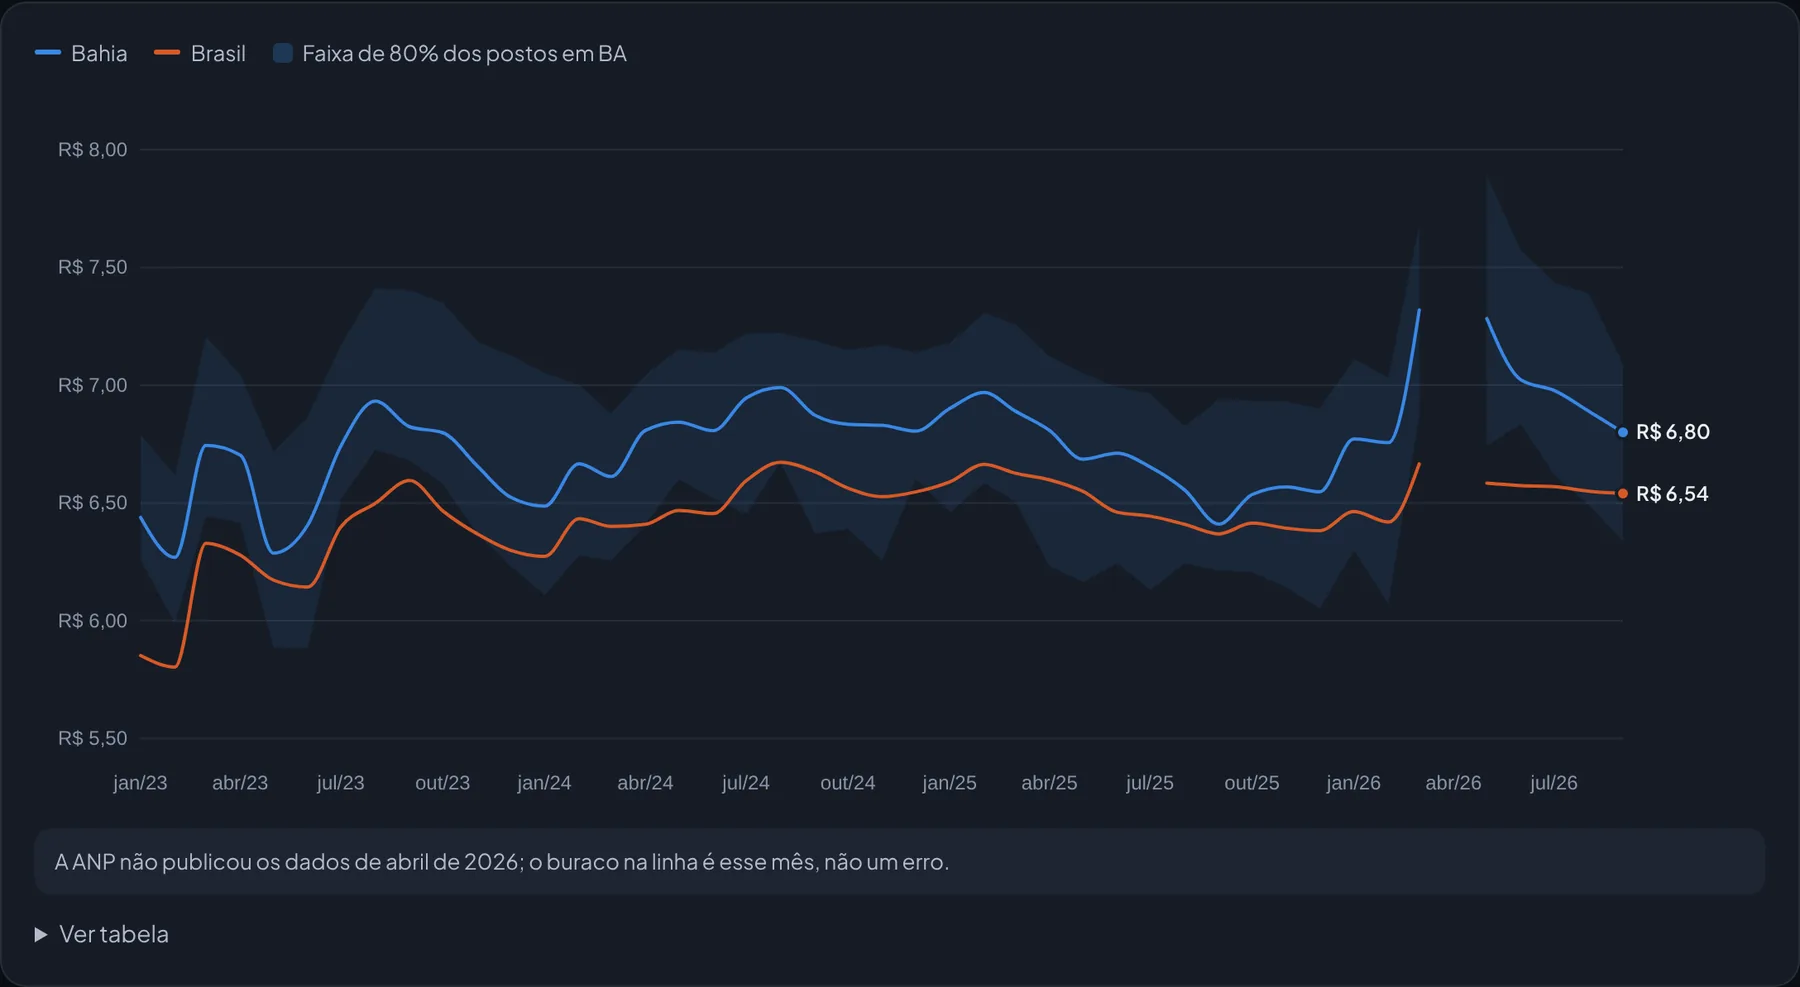
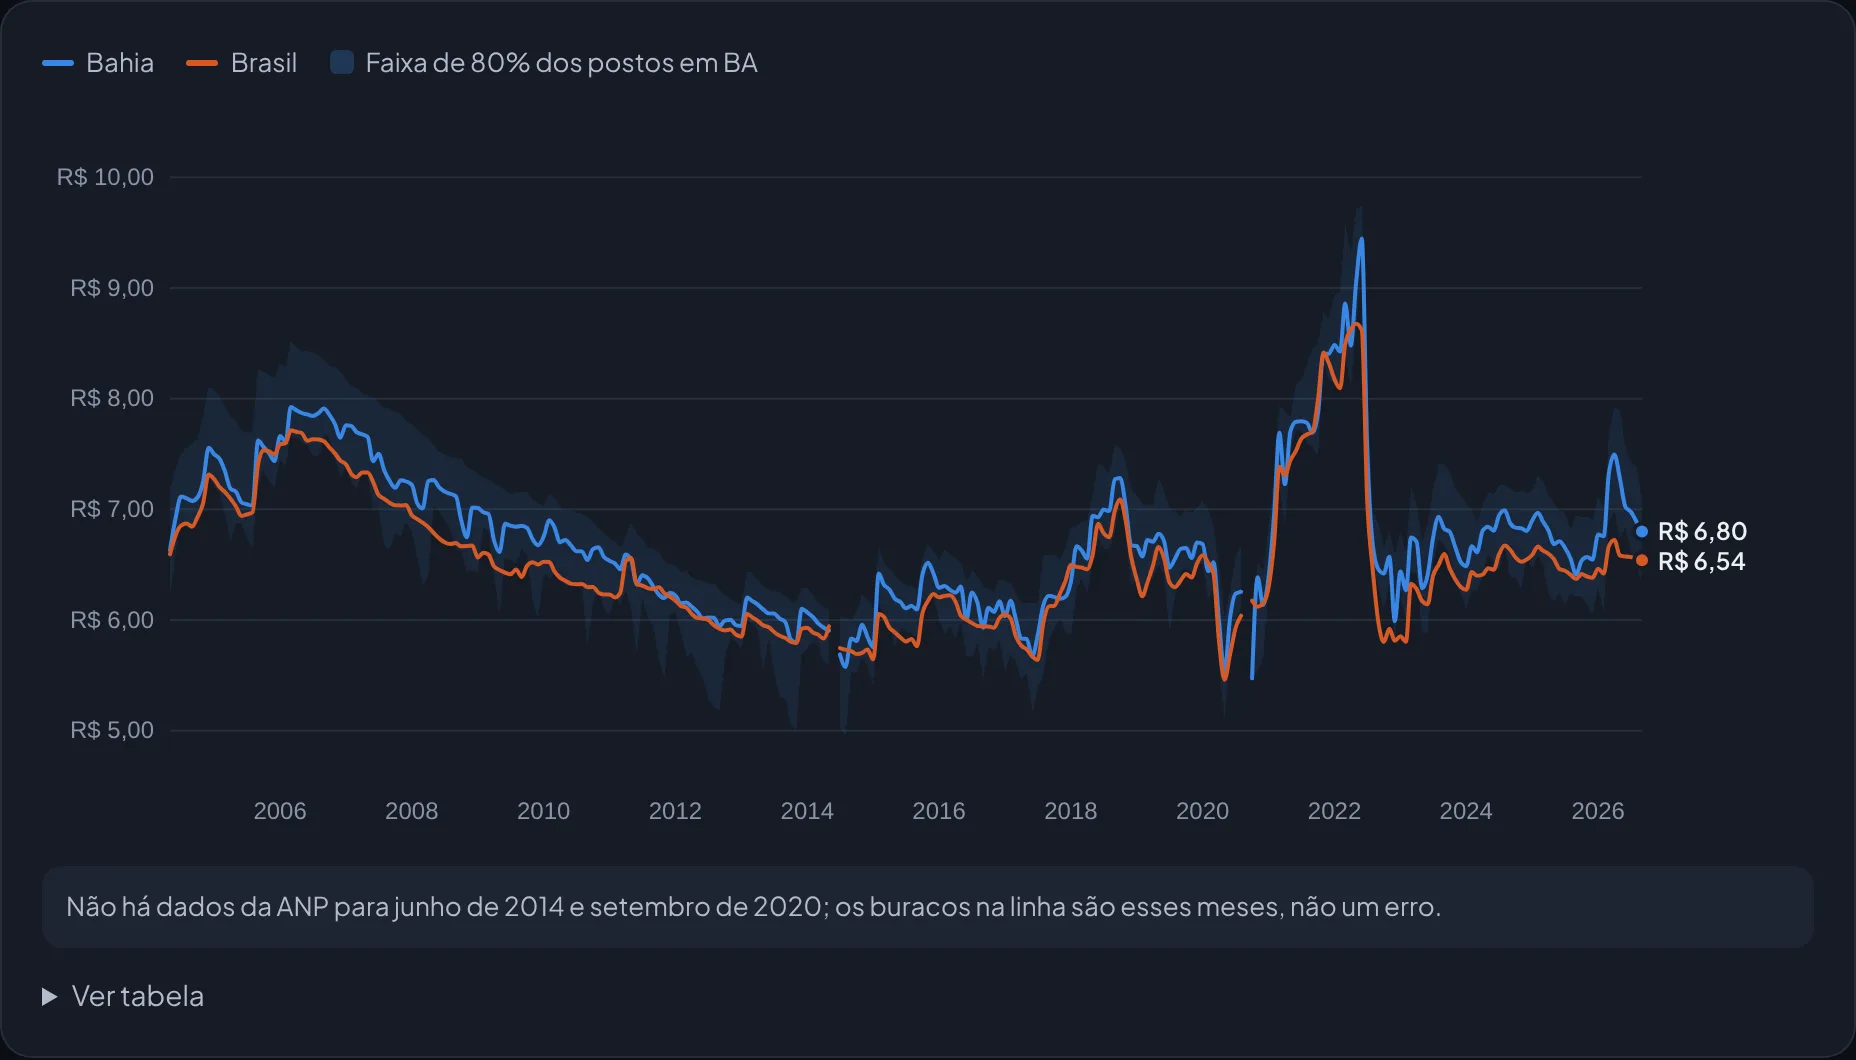
Atualiza o case do Raio-X com a base histórica desde 2004

diff --git a/client/src/lib/translations.ts b/client/src/lib/translations.ts
@@ -110,32 +110,32 @@ export const translations = {
       },
         fuel: {
           title: 'Raio-X dos Combustíveis',
-          desc: 'Pipeline que lê os dados abertos da ANP toda semana, corrige pela inflação e publica um painel de preços de combustível por estado, capital e município.',
-          tagline: 'Um pipeline que lê os dados abertos da ANP toda semana, corrige os preços pela inflação e publica sozinho um painel com gasolina, etanol e diesel em cada estado, capital e município pesquisado.',
+          desc: 'Base única com 25,5 milhões de preços da ANP desde 2004, montada com DuckDB, e um painel que corrige pela inflação e mostra o combustível por estado, capital e município.',
+          tagline: 'Toda a pesquisa de preços da ANP desde 2004 numa base única em Parquet, montada com DuckDB e aberta para consulta, e um painel que se atualiza sozinho com gasolina, etanol e diesel em cada estado, capital e município, corrigidos pela inflação.',
           role: 'Autora',
           origin: 'Projeto pessoal · dados abertos da ANP e do IBGE',
           metrics: {
-            0: { value: '3,2 mi', label: 'coletas de preço processadas, de janeiro de 2023 a setembro de 2026' },
-            1: { value: '462', label: 'municípios, nas 27 UFs, com o nome oficial do IBGE' },
-            2: { value: 'Toda segunda', label: 'o GitHub Actions testa, baixa só o mês novo e republica a página' },
+            0: { value: '25,5 mi', label: 'coletas de preço, de maio de 2004 a setembro de 2026, numa base de 197 MB em Parquet' },
+            1: { value: '702', label: 'municípios pesquisados em algum momento, nas 27 UFs' },
+            2: { value: 'Toda segunda', label: 'o GitHub Actions atualiza só o ano que mudou na base e republica a página' },
           },
-          context: 'A ANP publica o levantamento de preços nos postos como CSVs mensais de cerca de 50 mil linhas (uma por posto, produto e dia de coleta). O dado é aberto, mas não é algo que alguém consulte direto para saber quanto custa abastecer na própria cidade, ou se o preço subiu de verdade depois da inflação.',
-          problem: 'A fonte é irregular: o padrão do nome dos arquivos muda sem aviso, um deles foi publicado com erro de digitação, abril de 2026 simplesmente não existe e os municípios vêm em maiúsculas sem acento. Além disso, comparar preços de anos diferentes sem corrigir pela inflação engana, e um posto visitado várias vezes no mês não pode pesar mais que os outros.',
+          context: 'A ANP publica o levantamento de preços nos postos desde 2004, em 45 arquivos semestrais e, a partir de 2023, também em arquivos mensais: vários GB de CSV, com uma linha por posto, produto e dia de coleta. O dado é aberto, mas não é algo que alguém consulte direto para saber quanto custa abastecer na própria cidade, ou se o preço subiu de verdade depois da inflação.',
+          problem: 'A fonte é irregular: o padrão do nome dos arquivos muda sem aviso, um saiu com erro de digitação, o 1º semestre de 2022 não tem o ano no nome, o 2º semestre de 2021 veio em outra codificação, abril de 2026 não saiu no mensal e o servidor do gov.br derruba downloads grandes no meio. Além disso, comparar preços de anos diferentes sem corrigir pela inflação engana, e um posto visitado várias vezes no mês não pode pesar mais que os outros.',
           steps: {
-            0: { title: 'Achar os arquivos lendo a página', desc: 'Em vez de montar a URL, o pipeline lê a página da ANP e classifica cada link pelo caminho. Assim ele aguenta os quatro padrões de nome que já apareceram, inclusive o com erro de digitação, e aponta os meses que faltam.' },
+            0: { title: 'Achar os arquivos lendo a página', desc: 'Em vez de montar a URL, o pipeline lê a página da ANP e classifica cada link pelo caminho e pelo texto do link. Assim ele aguenta todos os padrões de nome que já apareceram, inclusive o com erro de digitação e o sem ano, e aponta os meses que faltam.' },
             1: { title: 'Um posto, um voto', desc: 'O preço de cada posto no mês é a mediana das coletas dele; as estatísticas de município, UF e Brasil saem desses preços. Sem isso, a diferença entre o posto mais barato e o mais caro de Salvador saía o dobro do real.' },
             2: { title: 'Corrigir pela inflação', desc: 'IPCA do IBGE (SIDRA, tabela 1737) para levar todos os meses a reais de hoje. Meses mais novos que o último IPCA ficam nominais até o índice sair.' },
-            3: { title: 'Publicar leve', desc: 'Cada mês vira um CSV pequeno versionado, e o CSV bruto de ~9 MB é apagado. A página carrega um resumo nacional e só baixa o detalhe de uma UF quando alguém escolhe.' },
-            4: { title: 'Automatizar com testes', desc: 'Toda segunda o GitHub Actions roda 10 testes, processa só o mês novo, versiona os dados e republica a página. Os números de Brasil, UF e capital foram conferidos contra um recálculo independente.' },
+            3: { title: 'Uma base só, com DuckDB', desc: 'O arquivo semestral (consolidado) entra sempre que cobre o mês, e o mensal só onde ele ainda não chegou; nos meses em que os dois existem, os números batem exatamente. O resultado é um Parquet por ano, publicado numa Release do GitHub e consultável direto do DuckDB, sem baixar nada. A agregação também foi para SQL e é testada contra a versão original em pandas.' },
+            4: { title: 'Automatizar com testes', desc: 'Toda segunda um workflow refaz só o ano da base que mudou (a execução retoma de onde parou se o gov.br cair) e, três horas depois, outro roda os 15 testes, reagrega esse ano e republica a página. Os números de Brasil e UF foram conferidos contra a versão anterior, ponto a ponto.' },
           },
           figures: {
             cover: 'Preço mediano da gasolina por estado em setembro de 2026 (modo escuro da página).',
             etanol: 'Etanol ou gasolina: em setembro de 2026 o etanol compensava em 10 dos 27 estados (preço abaixo de 70% do da gasolina).',
-            evolucao: 'Evolução com e sem inflação, com a faixa onde ficam 80% dos postos. O buraco é abril de 2026, que a ANP não publicou.',
+            evolucao: 'Gasolina desde 2004, em reais de hoje, com a faixa onde ficam 80% dos postos. Os buracos são junho de 2014 e setembro de 2020, meses sem coleta da ANP.',
             capitais: 'Mesma cidade, preços diferentes: a faixa de 80% dos postos em cada capital, sem os extremos.',
           },
-          result: 'Em setembro de 2026, a gasolina custava R$ 6,54 na mediana do país, 2,7% acima de um ano antes já descontada a inflação, com R$ 1,28 de diferença entre o estado mais caro (RR) e o mais barato (RS). O painel também mostrou o salto do diesel S10 em março de 2026: de R$ 6,09 para R$ 7,19 na mediana nacional, 18% num mês, em todos os estados.',
-          limitations: 'A ANP pesquisa uma amostra (cerca de 400 municípios e 6 mil postos por mês), não todos, e não publica o preço de compra do posto, então não dá para falar de margem. A regra dos 70% para o etanol é uma aproximação. O histórico começa em 2023; os arquivos semestrais desde 2004 ficam para uma próxima versão.',
+          result: 'Descontada a inflação, a gasolina custa hoje praticamente o mesmo que em 2004: R$ 6,59 em maio de 2004 e R$ 6,54 em setembro de 2026, em reais de hoje. No meio do caminho, chegou a R$ 8,68 em maio de 2022 e caiu para R$ 5,98 em setembro do mesmo ano, depois do teto do ICMS. O etanol ficou 25% mais caro em termos reais no período (R$ 3,40 para R$ 4,25), e o diesel comum, 45%. Mais recentemente, o painel mostrou o salto do diesel S10 em março de 2026: de R$ 6,09 para R$ 7,19 na mediana nacional, 18% num mês, em todos os estados.',
+          limitations: 'A ANP pesquisa uma amostra (hoje cerca de 400 municípios e 6 mil postos por mês), não todos, e o tamanho dela mudou ao longo dos anos: em 2004 eram mais de 16 mil postos. O diesel S10 só entra em 2012, e o preço de compra pelo posto só vem até cerca de 2020, então o painel não calcula margem. A regra dos 70% para o etanol é uma aproximação.',
         },
         maintenance: {
           title: 'Manutenção Preditiva: AI4I 2020',
@@ -342,32 +342,32 @@ export const translations = {
       },
         fuel: {
           title: 'Fuel Price X-Ray (Brazil)',
-          desc: 'A pipeline that reads Brazil\'s ANP open data every week, adjusts for inflation and publishes a fuel price dashboard by state, capital and city.',
-          tagline: 'A pipeline that reads Brazil\'s fuel regulator (ANP) open data every week, adjusts prices for inflation and publishes, on its own, a dashboard of gasoline, ethanol and diesel prices for every state, capital and surveyed city.',
+          desc: 'A single DuckDB-built database of 25.5 million ANP fuel prices since 2004, plus a dashboard that adjusts for inflation and shows prices by state, capital and city.',
+          tagline: 'Every price survey from Brazil\'s fuel regulator (ANP) since 2004 in a single Parquet database, built with DuckDB and open for anyone to query, plus a self-updating dashboard of inflation-adjusted gasoline, ethanol and diesel prices for every state, capital and surveyed city.',
           role: 'Author',
           origin: 'Personal project · ANP and IBGE open data',
           metrics: {
-            0: { value: '3.2M', label: 'price records processed, from January 2023 to September 2026' },
-            1: { value: '462', label: 'cities across all 27 states, with IBGE\'s official names' },
-            2: { value: 'Every Monday', label: 'GitHub Actions runs the tests, fetches only the new month and republishes the page' },
+            0: { value: '25.5M', label: 'price records from May 2004 to September 2026, in a 197 MB Parquet database' },
+            1: { value: '702', label: 'cities surveyed at some point, across all 27 states' },
+            2: { value: 'Every Monday', label: 'GitHub Actions rebuilds only the year that changed and republishes the page' },
           },
-          context: 'ANP publishes its gas station price survey as monthly CSVs of about 50,000 rows (one per station, product and collection day). The data is open, but nobody reads it directly to find out what it costs to fill up in their own city, or whether prices really went up once inflation is taken out.',
-          problem: 'The source is irregular: the file naming pattern changes without notice, one file was published with a typo in its name, April 2026 simply does not exist, and city names come in uppercase without accents. On top of that, comparing prices across years without adjusting for inflation misleads, and a station surveyed several times in a month must not weigh more than the others.',
+          context: 'ANP has published its gas station price survey since 2004, in 45 semiannual files and, since 2023, also in monthly ones: several GB of CSV, one row per station, product and collection day. The data is open, but nobody reads it directly to find out what it costs to fill up in their own city, or whether prices really went up once inflation is taken out.',
+          problem: 'The source is irregular: the file naming pattern changes without notice, one file has a typo in its name, the first half of 2022 has no year in its name, the second half of 2021 came in a different encoding, April 2026 is missing from the monthly files, and the government server drops large downloads midway. On top of that, comparing prices across years without adjusting for inflation misleads, and a station surveyed several times in a month must not weigh more than the others.',
           steps: {
-            0: { title: 'Find the files by reading the page', desc: 'Instead of building the URL, the pipeline reads ANP\'s page and classifies each link by its path. That way it handles the four naming patterns seen so far, including the misspelled one, and reports missing months.' },
+            0: { title: 'Find the files by reading the page', desc: 'Instead of building the URL, the pipeline reads ANP\'s page and classifies each link by its path and link text. That way it handles every naming pattern seen so far, including the misspelled one and the one without a year, and reports missing months.' },
             1: { title: 'One station, one vote', desc: 'Each station\'s monthly price is the median of its collections; city, state and national statistics come from those prices. Without this, the gap between the cheapest and the priciest station in Salvador came out twice as large as it really is.' },
             2: { title: 'Adjust for inflation', desc: 'IBGE\'s IPCA (SIDRA, table 1737) brings every month to today\'s reais. Months newer than the latest IPCA stay nominal until the index is released.' },
-            3: { title: 'Publish lean', desc: 'Each month becomes a small versioned CSV and the ~9 MB raw file is deleted. The page loads a national summary and only fetches a state\'s detail when someone picks it.' },
-            4: { title: 'Automate with tests', desc: 'Every Monday GitHub Actions runs 10 tests, processes only the new month, commits the data and republishes the page. National, state and capital figures were checked against an independent recalculation.' },
+            3: { title: 'One database, with DuckDB', desc: 'The semiannual (consolidated) file is used whenever it covers a month, and the monthly one only where it has not arrived yet; for months covered by both, the numbers match exactly. The result is one Parquet file per year, published as a GitHub Release and queryable straight from DuckDB without downloading anything. Aggregation also moved to SQL and is tested against the original pandas version.' },
+            4: { title: 'Automate with tests', desc: 'Every Monday one workflow rebuilds only the year of the database that changed (resuming where it stopped if the government server drops), and three hours later another runs the 15 tests, re-aggregates that year and republishes the page. National and state figures were checked point by point against the previous version.' },
           },
           figures: {
             cover: 'Median gasoline price by state in September 2026 (the page\'s dark mode).',
             etanol: 'Ethanol or gasoline: in September 2026 ethanol was the better deal in 10 of 27 states (priced below 70% of gasoline).',
-            evolucao: 'Price over time, with and without inflation, plus the band holding 80% of stations. The gap is April 2026, which ANP never published.',
+            evolucao: 'Gasoline since 2004, in today\'s reais, with the band holding 80% of stations. The gaps are June 2014 and September 2020, months with no ANP survey.',
             capitais: 'Same city, different prices: the band holding 80% of stations in each capital, without the extremes.',
           },
-          result: 'In September 2026, gasoline cost R$ 6.54 at the national median, 2.7% more than a year earlier after inflation, with a R$ 1.28 gap between the priciest (RR) and the cheapest state (RS). The dashboard also surfaced the March 2026 jump in S10 diesel: from R$ 6.09 to R$ 7.19 at the national median, 18% in one month, across every state.',
-          limitations: 'ANP surveys a sample (about 400 cities and 6,000 stations a month), not every station, and does not publish the station\'s purchase price, so margins are out of reach. The 70% rule for ethanol is an approximation. History starts in 2023; the semiannual files going back to 2004 are left for a next version.',
+          result: 'After inflation, gasoline costs about the same today as in 2004: R$ 6.59 in May 2004 and R$ 6.54 in September 2026, in today\'s reais. Along the way it peaked at R$ 8.68 in May 2022 and dropped to R$ 5.98 by September that year, after the cap on the ICMS state tax. Ethanol got 25% more expensive in real terms over the period (R$ 3.40 to R$ 4.25), and regular diesel 45%. More recently, the dashboard surfaced the March 2026 jump in S10 diesel: from R$ 6.09 to R$ 7.19 at the national median, 18% in one month, across every state.',
+          limitations: 'ANP surveys a sample (today about 400 cities and 6,000 stations a month), not every station, and the sample size has changed over the years: in 2004 it covered more than 16,000 stations. S10 diesel only enters in 2012, and the station\'s purchase price is only filled until around 2020, so the dashboard does not compute margins. The 70% rule for ethanol is an approximation.',
         },
         maintenance: {
           title: 'Predictive Maintenance: AI4I 2020',

diff --git a/client/src/lib/projects.ts b/client/src/lib/projects.ts
@@ -24,7 +24,7 @@ export interface Project {
 export const PROJECTS: Project[] = [
   {
     key: "fuel",
-    tags: ["Python", "Pandas", "GitHub Actions", "D3.js"],
+    tags: ["Python", "DuckDB", "Parquet", "GitHub Actions", "D3.js"],
     github: "https://github.com/ErikaNSantos/raio-x-combustiveis",
     demo: "https://erikansantos.github.io/raio-x-combustiveis/",
     icon: Fuel,
